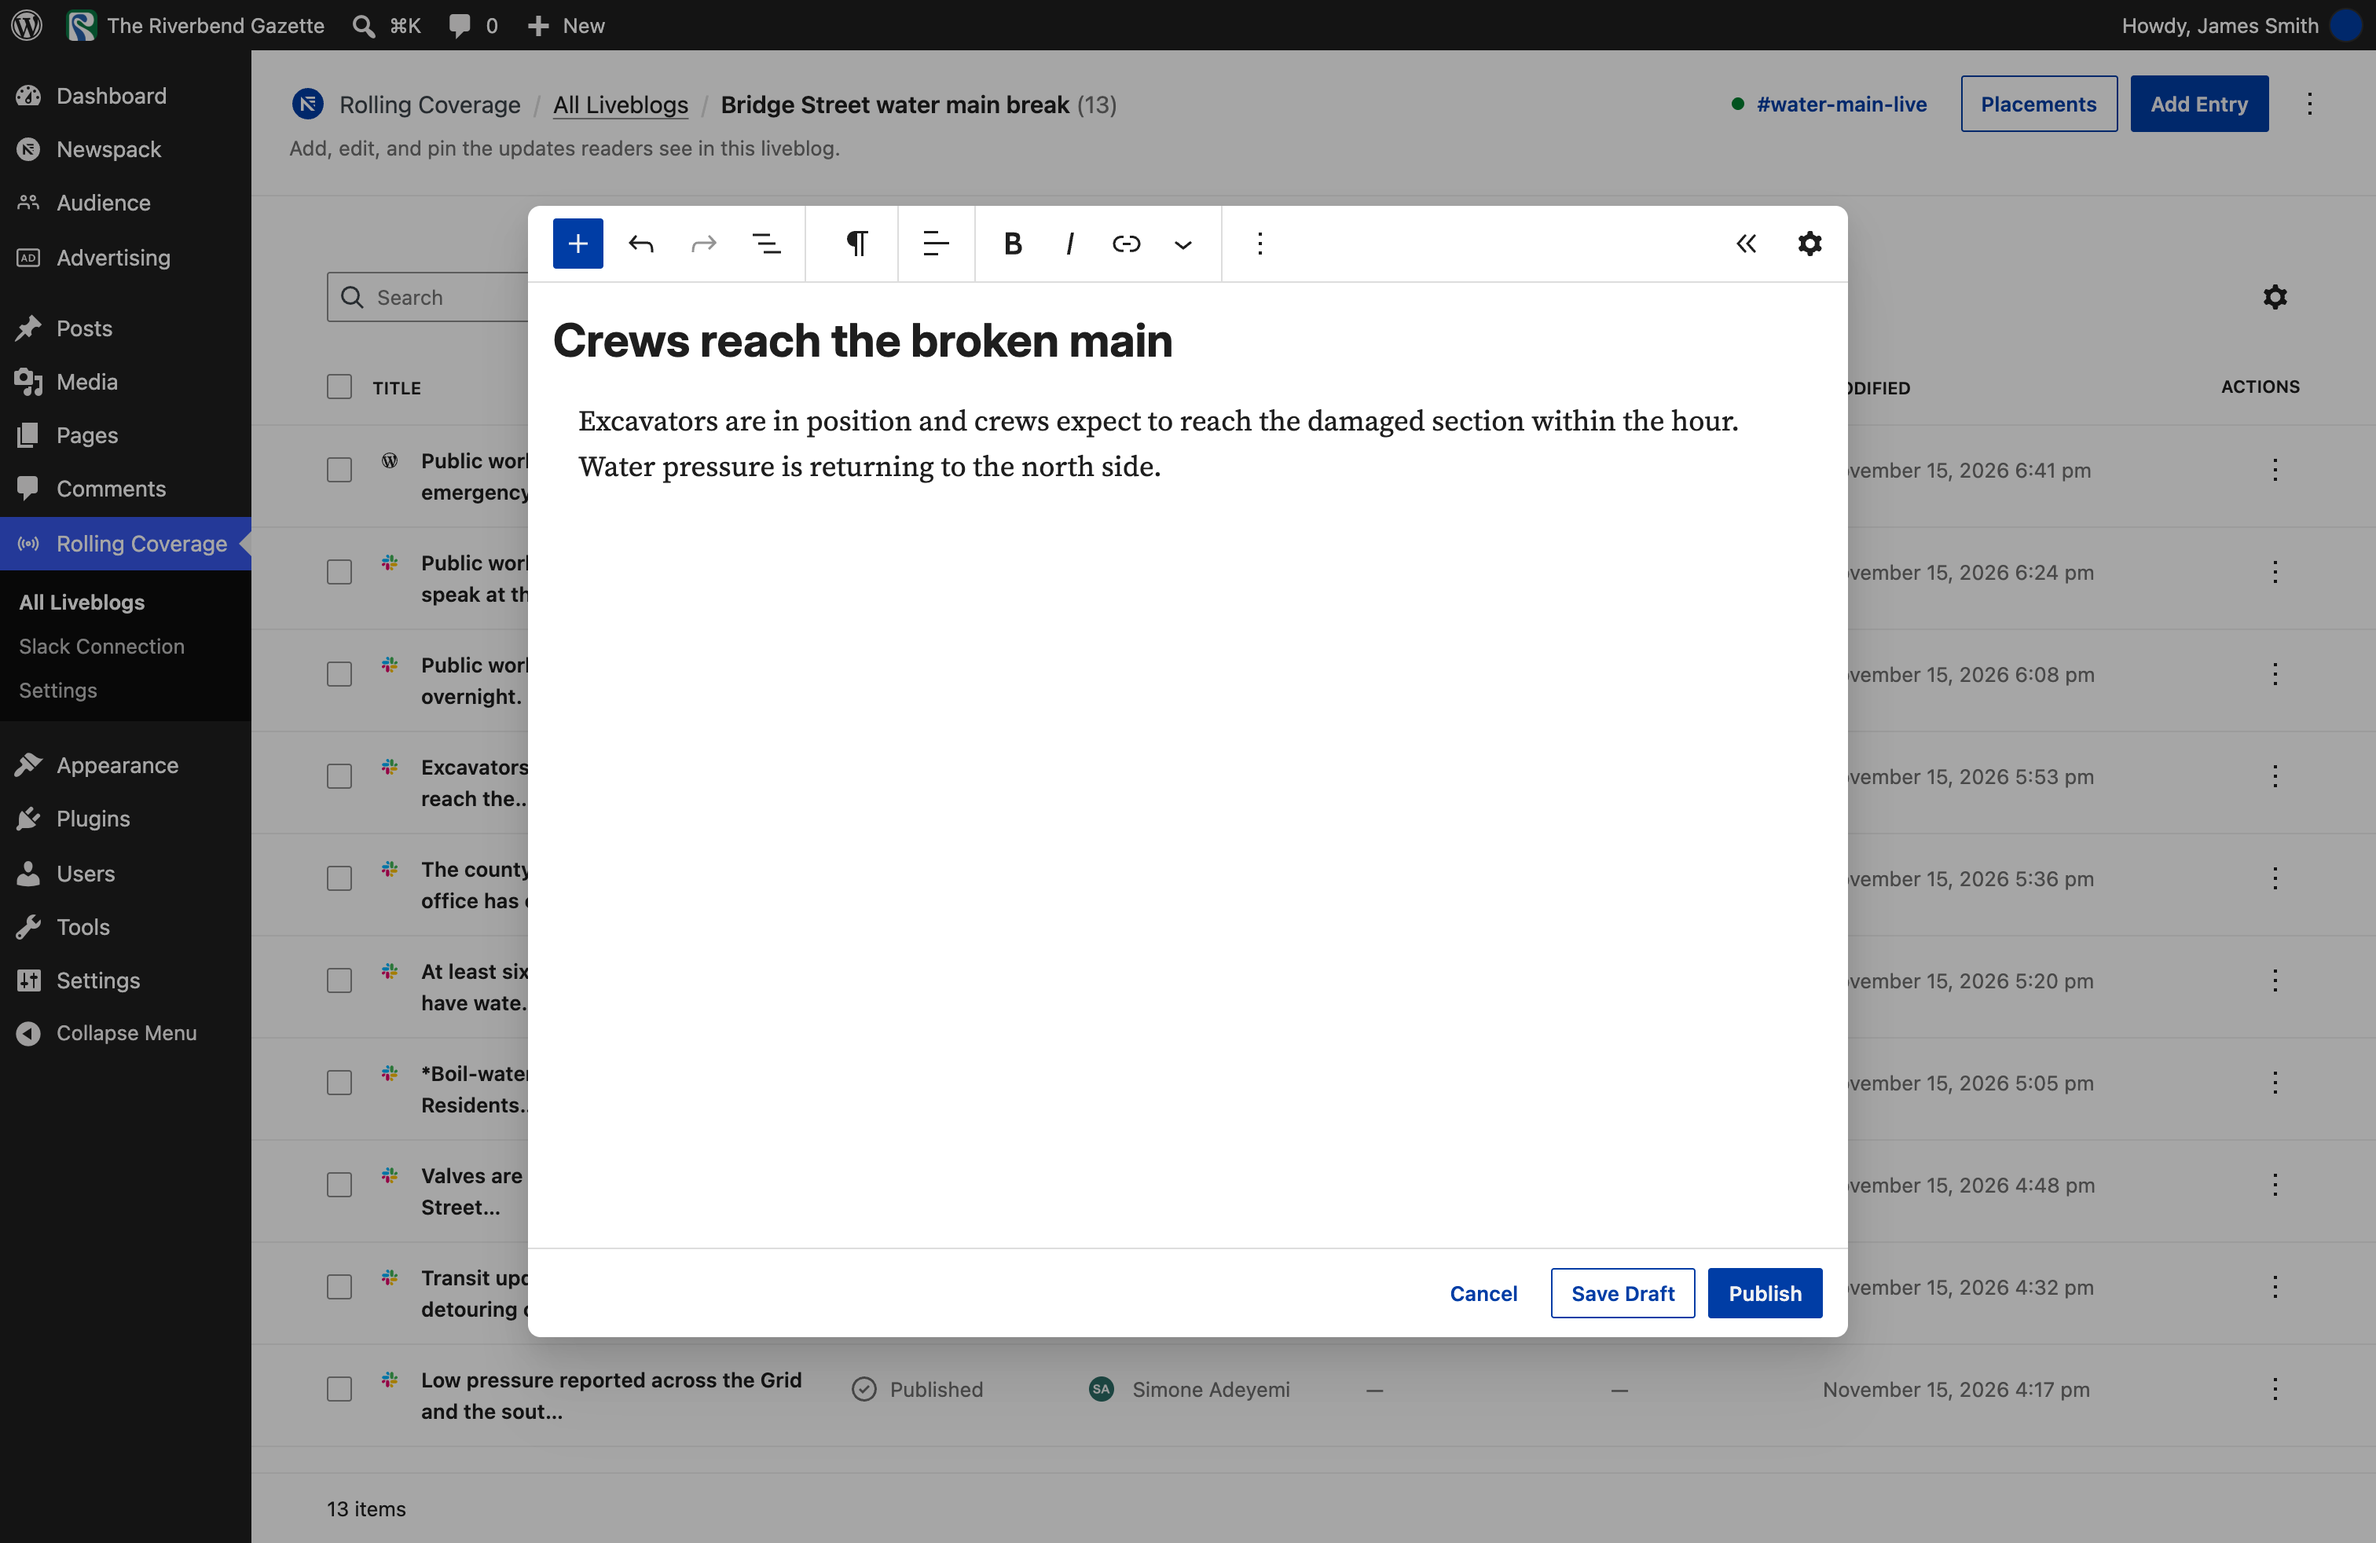
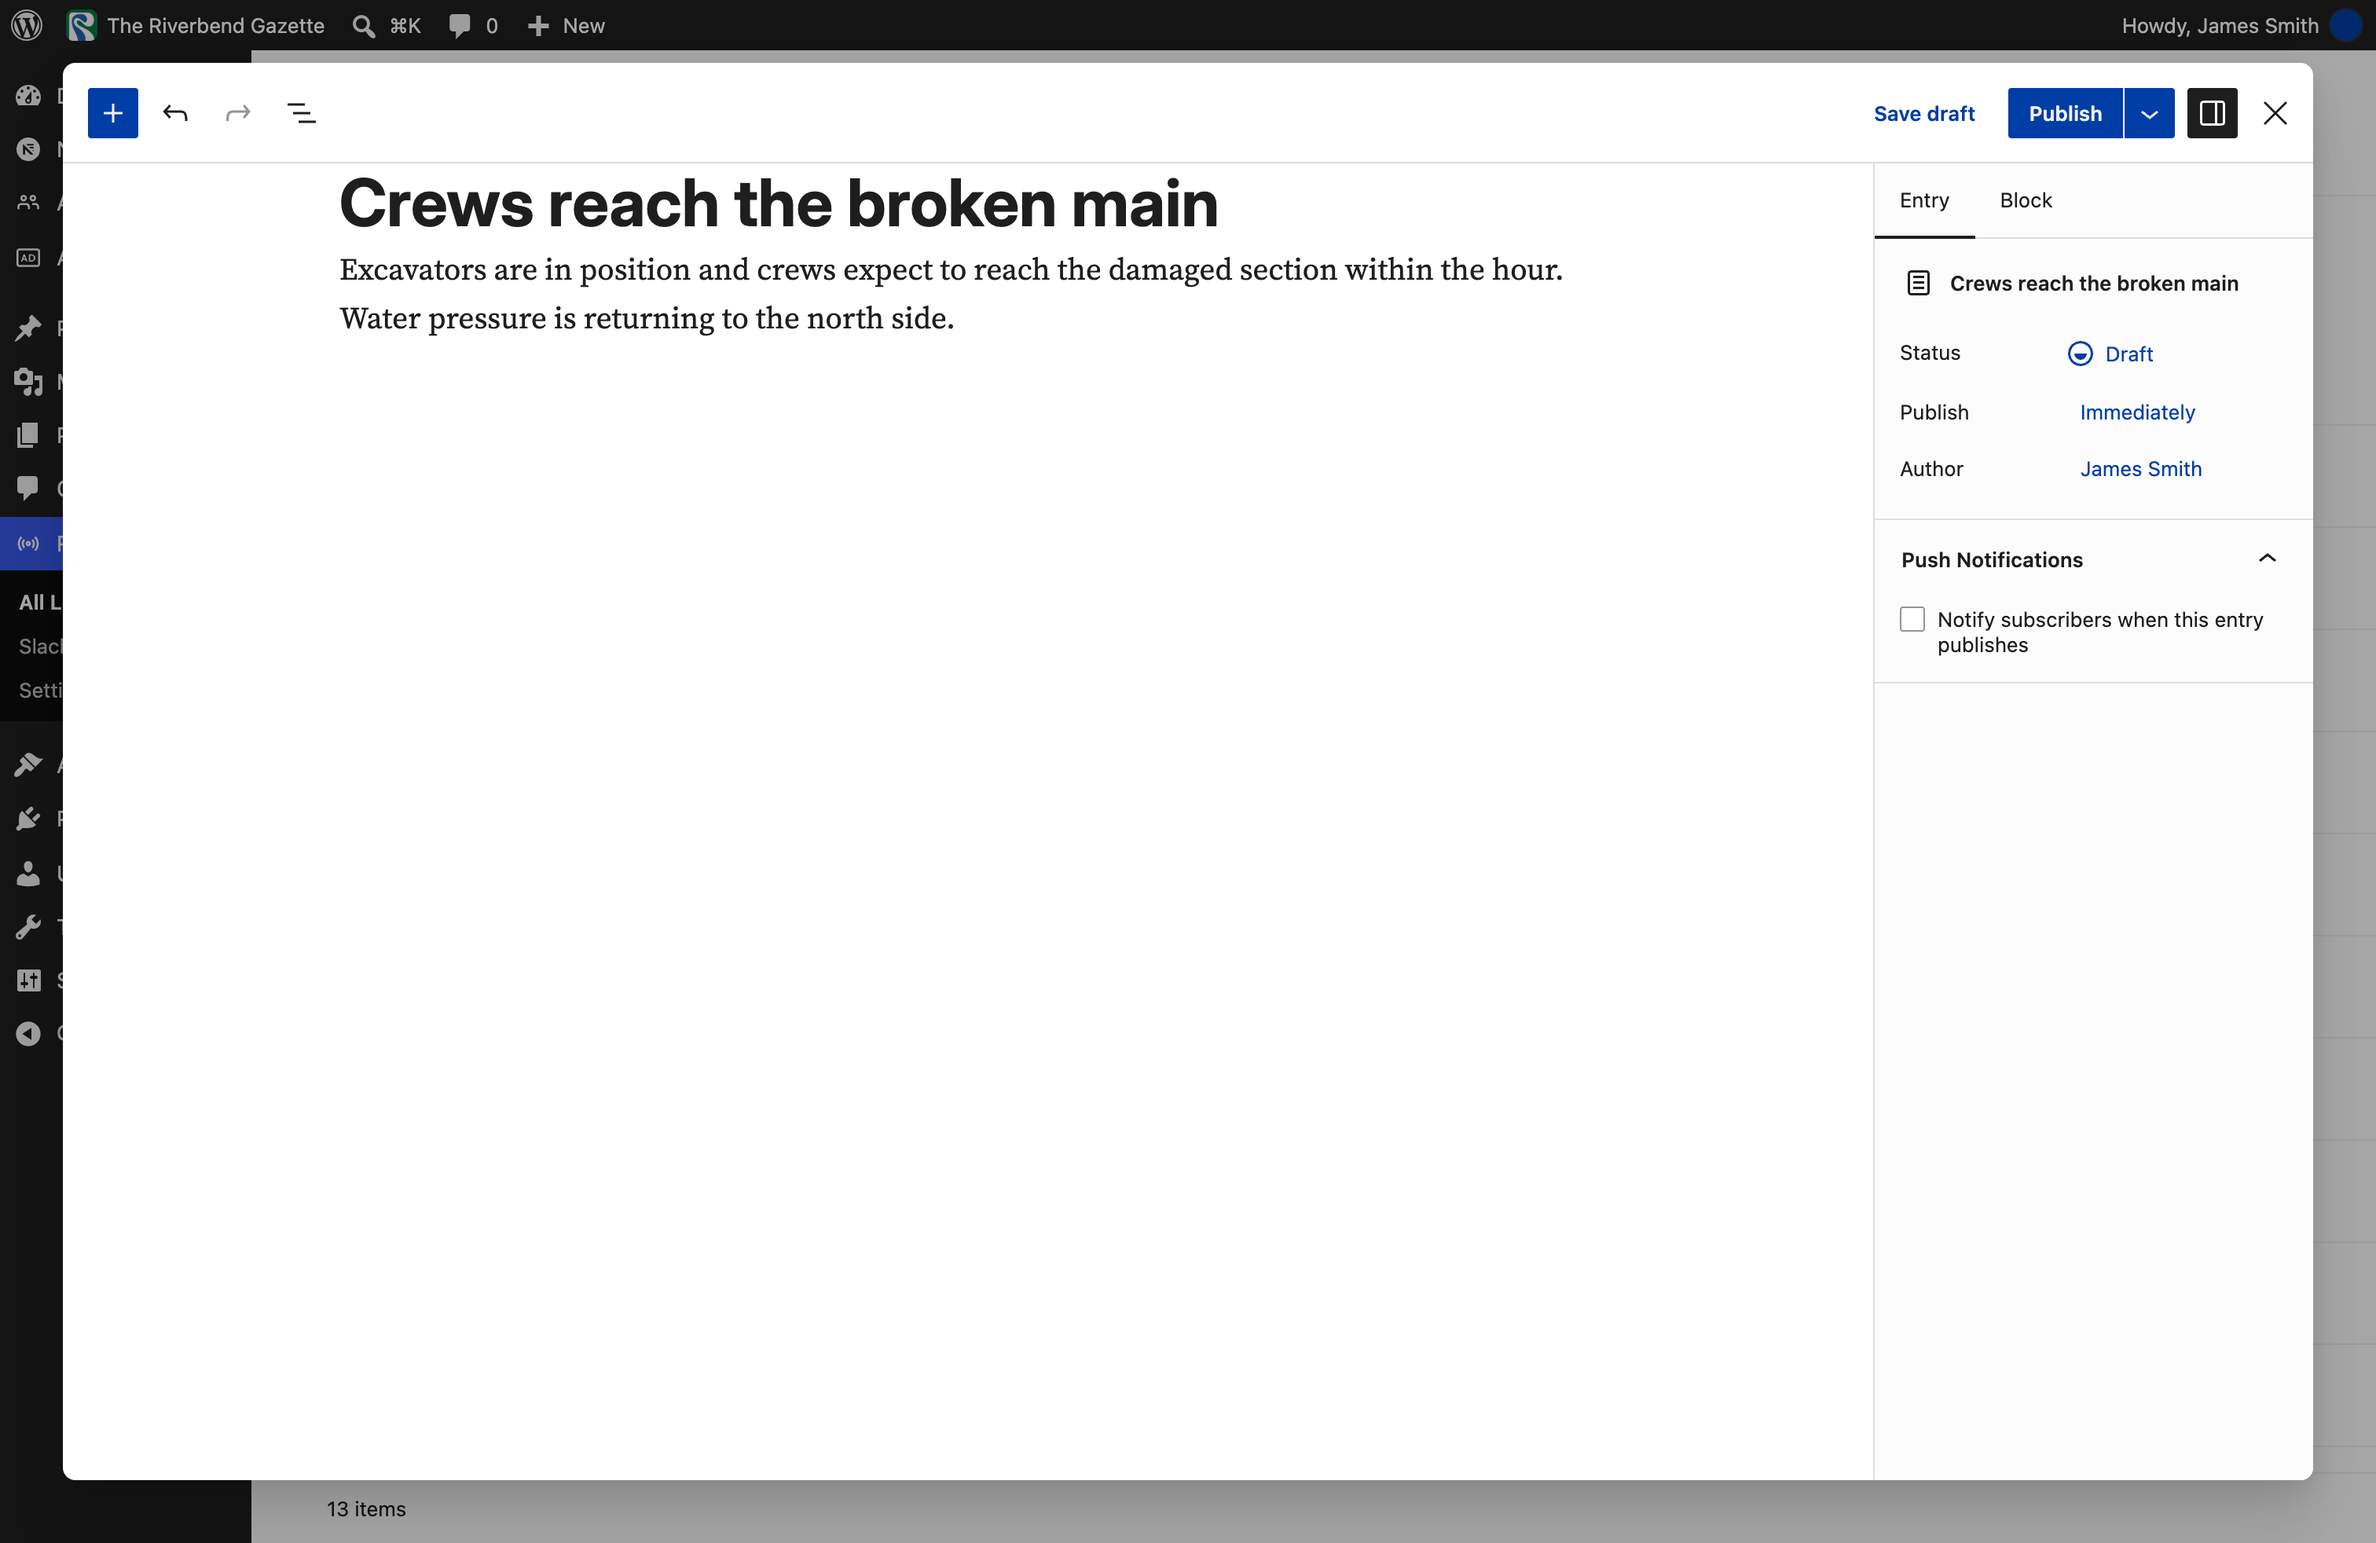
docs(site): retake the Add Entry screenshot

diff --git a/site/screenshots/SHOTS.md b/site/screenshots/SHOTS.md
@@ -13,7 +13,7 @@ Setup and cleanup steps run with WP-CLI on the screenshot site. After any shot w
 | File | What it shows | Command | Before and after |
 | :--- | :--- | :--- | :--- |
 | `getting-started/add-entries-1.webp` | A liveblog's entries list, with the Add Entry button picked out | `npm run shot -- getting-started/add-entries-1 --site <site> --url "wp-admin/admin.php?page=rolling-coverage" --click 'text=Bridge Street water main break' --spotlight 'button:has-text("Add Entry")'` | None |
-| `getting-started/add-entries-2.webp` | The Add Entry editor over the list, with a short title and a paragraph written | `npm run shot -- getting-started/add-entries-2 --site <site> --url "wp-admin/admin.php?page=rolling-coverage" --click 'text=Bridge Street water main break' --click 'button:has-text("Add Entry")' --fill '[aria-label="Add title"]' --value 'Crews reach the broken main' --click '[aria-label="Add default block"]' --fill '[data-type="core/paragraph"]' --value 'Excavators are in position and crews expect to reach the damaged section within the hour. Water pressure is returning to the north side.'` | None (nothing is saved). Afterwards, delete any auto-draft entry the editor left: `wp post list --post_type=rolling_cov_entry --post_status=auto-draft --format=ids` then `wp post delete <ids> --force` |
+| `getting-started/add-entries-2.webp` | The Add Entry editor over the list, with a short title and a paragraph written | `npm run shot -- getting-started/add-entries-2 --site <site> --url "wp-admin/admin.php?page=rolling-coverage" --click 'text=Bridge Street water main break' --click 'button:has-text("Add Entry")' --fill '[aria-label="Add title"]' --value 'Crews reach the broken main' --click '[aria-label="Add default block"]' --fill '[data-type="core/paragraph"]' --value 'Excavators are in position and crews expect to reach the damaged section within the hour. Water pressure is returning to the north side.' --click '[aria-label="Add title"]'` | None (nothing is saved). Afterwards, delete any auto-draft entry the editor left: `wp post list --post_type=rolling_cov_entry --post_status=auto-draft --format=ids` then `wp post delete <ids> --force` |
 | `getting-started/add-entries-3.webp` | An entry's row actions menu, with Pin picked out | `npm run shot -- getting-started/add-entries-3 --site <site> --url "wp-admin/admin.php?page=rolling-coverage" --click 'text=Bridge Street water main break' --click 'tbody tr:nth-child(3) button[aria-label="Actions"]' --spotlight '[role="menuitem"]:has-text("Pin")'` | None |
 | `getting-started/create-your-first-coverage-1.webp` | The All Liveblogs list, with the Add Liveblog button picked out | `npm run shot -- getting-started/create-your-first-coverage-1 --site <site> --url "wp-admin/admin.php?page=rolling-coverage" --spotlight 'button:has-text("Add Liveblog")'` | None |
 | `getting-started/create-your-first-coverage-2.webp` | The Add Liveblog panel with a name and a short description filled in, Status on Live and Advertising on Enabled | `npm run shot -- getting-started/create-your-first-coverage-2 --site <site> --url "wp-admin/admin.php?page=rolling-coverage" --click 'button:has-text("Add Liveblog")' --fill 'internal:label="Name"s' --value 'Depot Street Bridge closure: live updates' --fill 'internal:label="Description"s' --value 'Closures and diversions' --click 'text=An internal note about this liveblog'` | None (the panel is never submitted) |
@@ -124,7 +124,7 @@ The files WordPress.org shows on the plugin's listing, in `.wordpress-org/` at t
 | :--- | :--- | :--- | :--- |
 | `.wordpress-org/screenshot-1.png` | A liveblog of a river flood on a news site in the Rail layout, with the pinned entry at the top and a Full story card below it | `npm run shot -- home/live-feed-1 --site <site> --url live-kettle-river-flood/ --logged-out --out ../.wordpress-org/screenshot-1.png` | Before: switch the page to the Rail layout and set the entry times, then flush the cache. `wp eval-file - --user=james <<'PHP'` then `<?php foreach ( get_posts( [ 'post_type' => 'rolling_cov_entry', 'post_status' => 'any', 'title' => 'Tetanus shots at the fairgrounds shelter', 'fields' => 'ids', 'numberposts' => -1 ] ) as $old ) { wp_delete_post( $old, true ); } $tax = [ [ 'taxonomy' => 'rolling_coverage', 'field' => 'slug', 'terms' => 'live-kettle-river-flood' ] ]; $page = get_page_by_path( 'live-kettle-river-flood' ); wp_update_post( [ 'ID' => $page->ID, 'post_content' => wp_slash( preg_replace( '/"layoutId":\d+/', '"layoutId":' . Newspack_Rolling_Coverage\Layout::get_layout_id( 'rail' ), $page->post_content ) ) ] ); $pinned = get_posts( [ 'post_type' => 'rolling_cov_entry', 'fields' => 'ids', 'post__in' => array_merge( [ 0 ], Newspack_Rolling_Coverage\Post_Type::get_pinned_ids() ), 'tax_query' => $tax ] ); $full_story = get_posts( [ 'post_type' => 'rolling_cov_entry', 'fields' => 'ids', 'numberposts' => 1, 'meta_key' => 'rolling_coverage_breakout_post_id', 'tax_query' => $tax ] ); $newest = get_posts( [ 'post_type' => 'rolling_cov_entry', 'fields' => 'ids', 'numberposts' => 2, 'post__not_in' => array_merge( $pinned, $full_story ), 'tax_query' => $tax ] ); foreach ( array_combine( array_merge( $pinned, $full_story, $newest ), [ 41, 8, 14, 26 ] ) as $id => $minutes ) { $gmt = gmdate( 'Y-m-d H:i:s', time() - 60 * $minutes ); wp_update_post( [ 'ID' => $id, 'post_date' => get_date_from_gmt( $gmt ), 'post_date_gmt' => $gmt, 'edit_date' => true ] ); }` then `PHP`, then `wp cache flush`. After: rerun the seed to put the Clock layout and the dates back, then `wp cache flush` |
 | `.wordpress-org/screenshot-2.png` | The Choose a layout window, showing a preview of each layout | `npm run shot -- guides/layouts-1 --site <site> --now --url "wp-admin/edit.php?post_type=page&post_status=draft" --click 'a.row-title >> text="Kettle River flood"' --click '[data-type="newspack-rolling-coverage/rolling-coverage"]' --scroll=-2000 --click 'button:has-text("Change Layout")' --wait 1500 --scroll=-5000 --out ../.wordpress-org/screenshot-2.png` | None |
-| `.wordpress-org/screenshot-3.png` | The Add Entry editor over the entries list, with a short title and a paragraph written | `npm run shot -- getting-started/add-entries-2 --site <site> --url "wp-admin/admin.php?page=rolling-coverage" --click 'text=Bridge Street water main break' --click 'button:has-text("Add Entry")' --fill '[aria-label="Add title"]' --value 'Crews reach the broken main' --click '[aria-label="Add default block"]' --fill '[data-type="core/paragraph"]' --value 'Excavators are in position and crews expect to reach the damaged section within the hour. Water pressure is returning to the north side.' --out ../.wordpress-org/screenshot-3.png` | None (nothing is saved). Afterwards, delete any auto-draft entry the editor left: `wp post list --post_type=rolling_cov_entry --post_status=auto-draft --format=ids` then `wp post delete <ids> --force` |
+| `.wordpress-org/screenshot-3.png` | The Add Entry editor over the entries list, with a short title and a paragraph written | `npm run shot -- getting-started/add-entries-2 --site <site> --url "wp-admin/admin.php?page=rolling-coverage" --click 'text=Bridge Street water main break' --click 'button:has-text("Add Entry")' --fill '[aria-label="Add title"]' --value 'Crews reach the broken main' --click '[aria-label="Add default block"]' --fill '[data-type="core/paragraph"]' --value 'Excavators are in position and crews expect to reach the damaged section within the hour. Water pressure is returning to the north side.' --click '[aria-label="Add title"]' --out ../.wordpress-org/screenshot-3.png` | None (nothing is saved). Afterwards, delete any auto-draft entry the editor left: `wp post list --post_type=rolling_cov_entry --post_status=auto-draft --format=ids` then `wp post delete <ids> --force` |
 | `.wordpress-org/screenshot-4.png` | The Slack Connection panel for a liveblog, with the Channel field and the Publish Mode setting | `npm run shot -- guides/slack-3 --site <site> --now --url "wp-admin/admin.php?page=rolling-coverage" --click 'tr:has-text("Kettle Greenway Half Marathon") button[aria-label="Actions"]' --click 'div[role="menuitem"]:has-text("Slack Connection")' --out ../.wordpress-org/screenshot-4.png` | None. The panel isn't saved |
 | `.wordpress-org/screenshot-5.png` | The block settings AI panel, with the key takeaways shown under Generated Output | `npm run shot -- guides/ai-2 --site <site> --now --url "wp-admin/edit.php?post_type=page&post_status=draft" --click 'a.row-title >> text="Kettle River flood: live updates"' --click '[data-type="newspack-rolling-coverage/rolling-coverage"]' --scroll=-2000 --click '.block-editor-block-inspector button.components-panel__body-toggle:has-text("AI")' --click 'button:has-text("Generate Key Takeaways")' --wait 1500 --click 'text=Sums up the latest entries' --eval '(() => { const i = document.querySelector(".block-editor-block-inspector"); if (!i) throw new Error("inspector not found"); const h = [...i.querySelectorAll(".components-base-control__help")].find((e) => /More entries load as readers scroll down/.test(e.textContent)); if (!h) throw new Error("scroll help text not found"); const tabs = [...document.querySelectorAll("[role=tablist]")].find((t) => [...t.querySelectorAll("[role=tab]")].some((b) => b.textContent.trim() === "Block")); if (!tabs) throw new Error("tab bar not found"); const sc = (function f(e){ while (e && !(e.scrollHeight > e.clientHeight + 1 && ["auto","scroll"].includes(getComputedStyle(e).overflowY))) e = e.parentElement; return e; })(h); if (!sc) throw new Error("scroll container not found"); sc.scrollTop += h.getBoundingClientRect().top - tabs.getBoundingClientRect().bottom - 2; })()' --mouse 1170,500 --out ../.wordpress-org/screenshot-5.png` | None: the seed's stand-in answers Key Takeaways with sample text. Nothing is saved. The `--eval` scrolls the sidebar so the help line above Entries per page sits just under the Page and Block tab bar, which is sticky, so the top edge lands on a whole line and Generated Output keeps its Copy Generated Output button in frame. If the line or the tab bar isn't found, the script prints `shot: --eval failed: …` and still saves the PNG, so retake the frame |
 | `.wordpress-org/screenshot-6.png` | The Edit Liveblog panel for an ended liveblog, with Status set to Ended | `npm run shot -- guides/end-a-coverage-2 --site <site> --now --url "wp-admin/admin.php?page=rolling-coverage" --click 'tr:has-text("Kettle Greenway Half Marathon") button[aria-label="Actions"]' --click 'div[role="menuitem"]:has-text("Edit")' --out ../.wordpress-org/screenshot-6.png` | None. No docs shot shows an ended liveblog on a page, so this admin view stands in for it |
